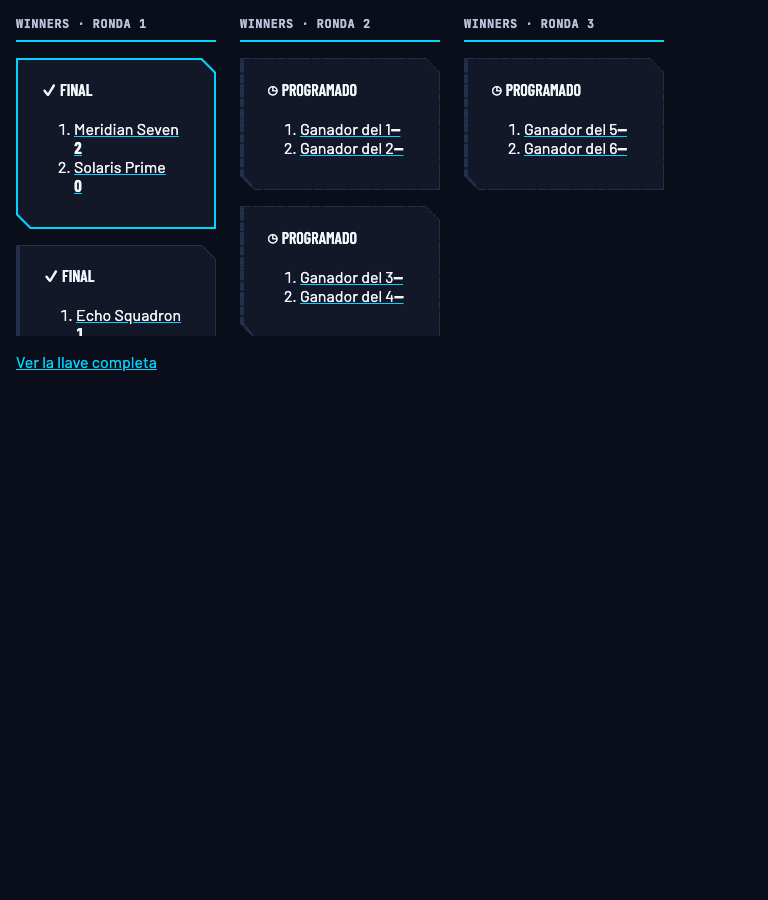
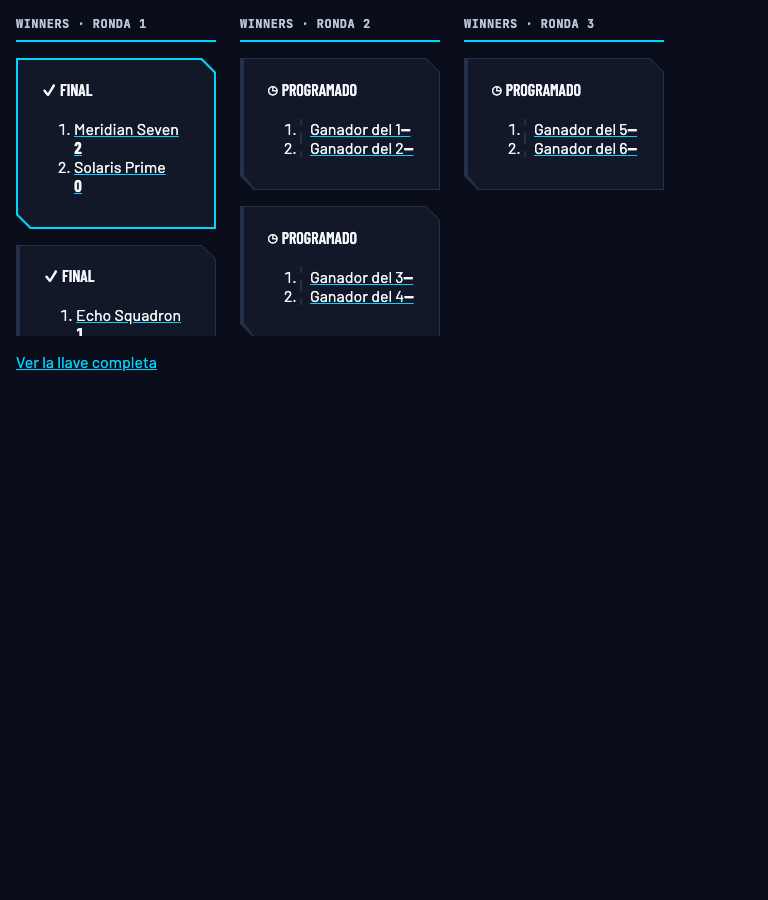
fix(public-web): dash the pending slot, not the whole match card
Replaces the public bracket's whole-card dashed-pending treatment
with a per-slot left-edge dash, matching the control BracketCanvas's
existing pendingSlotStyle convention exactly (same 2px dashed
--cl-border-muted accent) — one visual language for "this slot hasn't
been decided yet" across both surfaces instead of two.

MatchNode.astro already emitted a cl-slot--pending class per
unresolved slot with no styling behind it; this gives it one and
drops the now-unused cl-bracket-stage__node--pending modifier and its
whole-card dashed-border rule.

Changed region(s): [[0.375, 0.1244, 0.5312, 0.1867], [0.375, 0.28, 0.5312, 0.3422], [0.6875, 0.1244, 0.8125, 0.1867]]

diff --git a/packages/design-tokens/src/generate/css.ts b/packages/design-tokens/src/generate/css.ts
@@ -1483,7 +1483,11 @@ function compositions(): string {
     '}',
     '',
     '.cl-bracket-stage__node { min-width: 0; }',
-    '.cl-bracket-stage__node--pending .cl-card { border-style: dashed; border-color: var(--cl-border-muted); }',
+    '',
+    // Per-slot, not per-match: a card with one confirmed entrant and one
+    // still-unresolved "winner of" slot marks only the slot that's waiting,
+    // matching the control BracketCanvas's own pendingSlotStyle treatment.
+    '.cl-slot--pending { border-left: 2px dashed var(--cl-border-muted); padding-left: var(--cl-space-2); }',
     '',
     /*
      * The textual view. Not a degraded copy: it carries seeds, sources and
